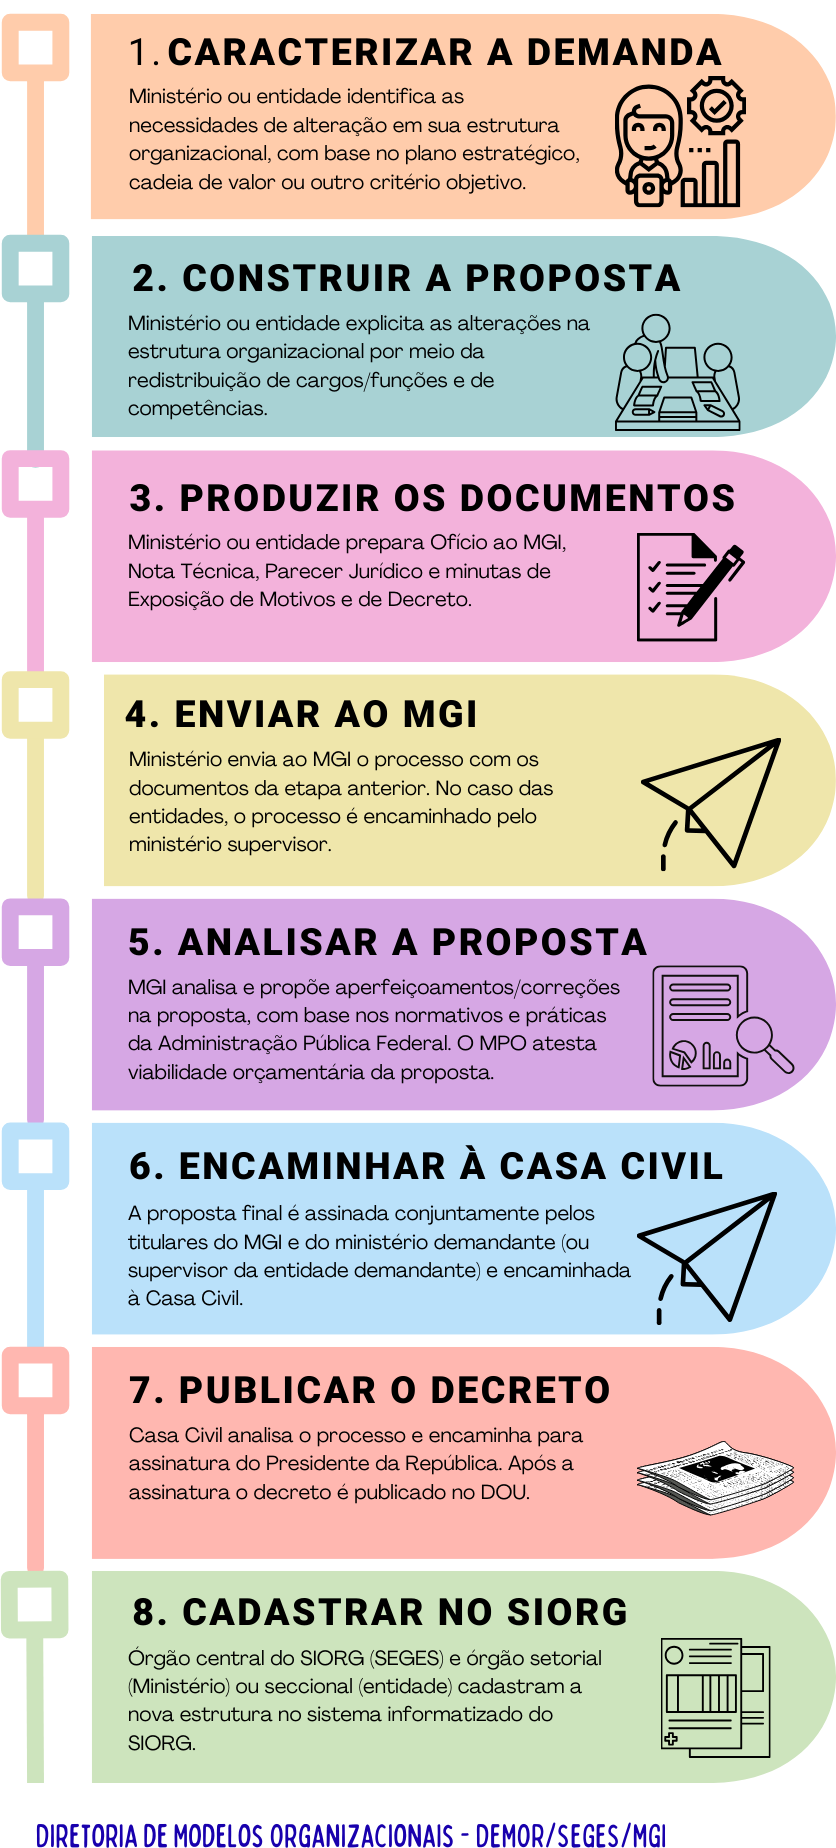
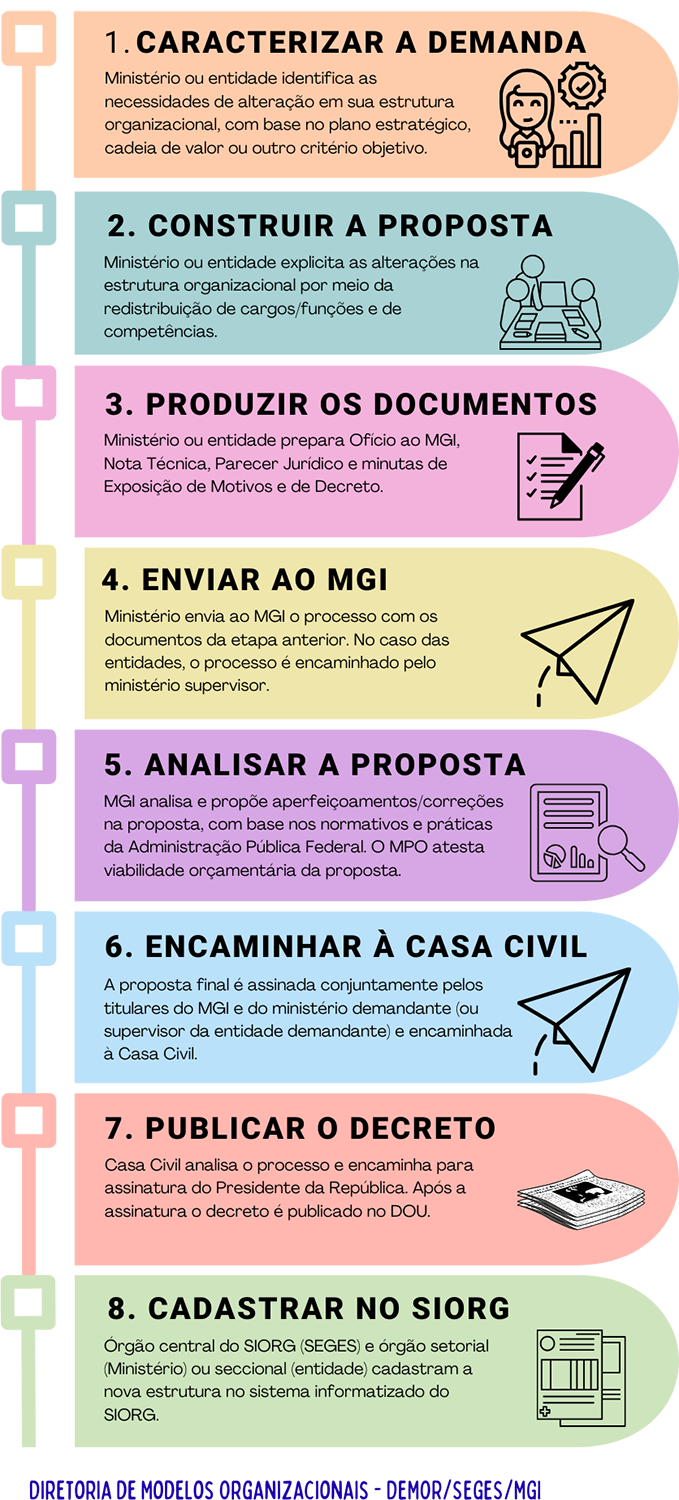
redimensionamnento

diff --git a/docs/source/05_Cargos/index.rst b/docs/source/05_Cargos/index.rst
@@ -78,6 +78,7 @@ A diferença das funções de confiança para os cargos em comissão é que as f
 
 Considerando o disposto no inc. V do art. 37 da Constituição Federal, as funções de confiança não podem ser ocupadas por pessoas que não ocupam cargo efetivo, **nem por empregados públicos (pessoas empregadas em empresas estatais), nem por servidores aposentados e nem por militares, sejam da ativa ou da reserva**.
 
+
 A tabela abaixo resume as características dos diferentes tipos de cargos públicos.
 
 
@@ -110,6 +111,7 @@ A tabela abaixo resume as características dos diferentes tipos de cargos públi
      * Livre provimento, observadas as previsões normativas. (60% dos cargos em comissão existentes devem ser preenchidos por servidores efetivos)
      * Servidores públicos efetivos, de qualquer esfera e poder, observadas as previsões normativas. Obs.: não podem ser ocupadas por pessoas que não ocupam cargo efetivo, nem por servidores públicos de carreira aposentados, nem por militares (da ativa ou da reserva) e nem por empregados públicos. (Art. 37, inc. V da CF)
 
+Quando uma lei cria cargos em comissão e/ou funções comissionados, estes são *armazenados* em uma **reserva técnica**, gerida pela Secretaria de Gestão e Inovação, do Ministério da Gestão e da Inovação em Serviços Públicos. Quando um órgão ou entidade precisa ser fortalecido (ou mesmo criado), cabe a esta Secretaria a análise inicial da demanda (link para o texto que traz os requisitos e documentações mínimos?) e o eventual encaminhamento, à Casa Civil, da minuta de decreto que realizará o remanejamento de cargos e funções.
 
 Cargos Comissionados Executivos – CCE e Funções Comissionadas Executivas – FCE
 ------------------------------------------------------------------------------
@@ -363,7 +365,7 @@ Cargos em comissão e funções de confiança temporários
 
 .. epigraph:: Exemplo
 
-   *Art. 1º Ficam remanejados em caráter temporário, os seguintes Cargos Comissionados Executivos - CCE e Funções Comissionadas Executivas - FCE da Secretaria de Gestão e Inovação do Ministério da Gestão e da Inovação em Serviços Públicos para o (órgão ou entidade):
+   Art. 1º Ficam remanejados em caráter temporário, os seguintes Cargos Comissionados Executivos - CCE e Funções Comissionadas Executivas - FCE da Secretaria de Gestão e Inovação do Ministério da Gestão e da Inovação em Serviços Públicos para o (órgão ou entidade):
    
    - ..........
    
@@ -375,7 +377,7 @@ Cargos em comissão e funções de confiança temporários
    
    II - serão restituídos à Secretaria de Gestão e Inovação em (data completa de restituição, quando seus ocupantes ficarão automaticamente exonerados ou dispensados.
    
-   § 2º Os cargos referidos no caput não integrarão a Estrutura Regimental (ou Estatuto) do (órgão ou entidade) e os atos de nomeação ou designação relacionados terão seu caráter de transitoriedade expressos, mediante remissão ao caput do art. 1º.*
+   § 2º Os cargos referidos no caput não integrarão a Estrutura Regimental (ou Estatuto) do (órgão ou entidade) e os atos de nomeação ou designação relacionados terão seu caráter de transitoriedade expressos, mediante remissão ao caput do art. 1º.
 
 
 .. [#] Lei nº 9.650, de 1998, art. 12, § 6º.
